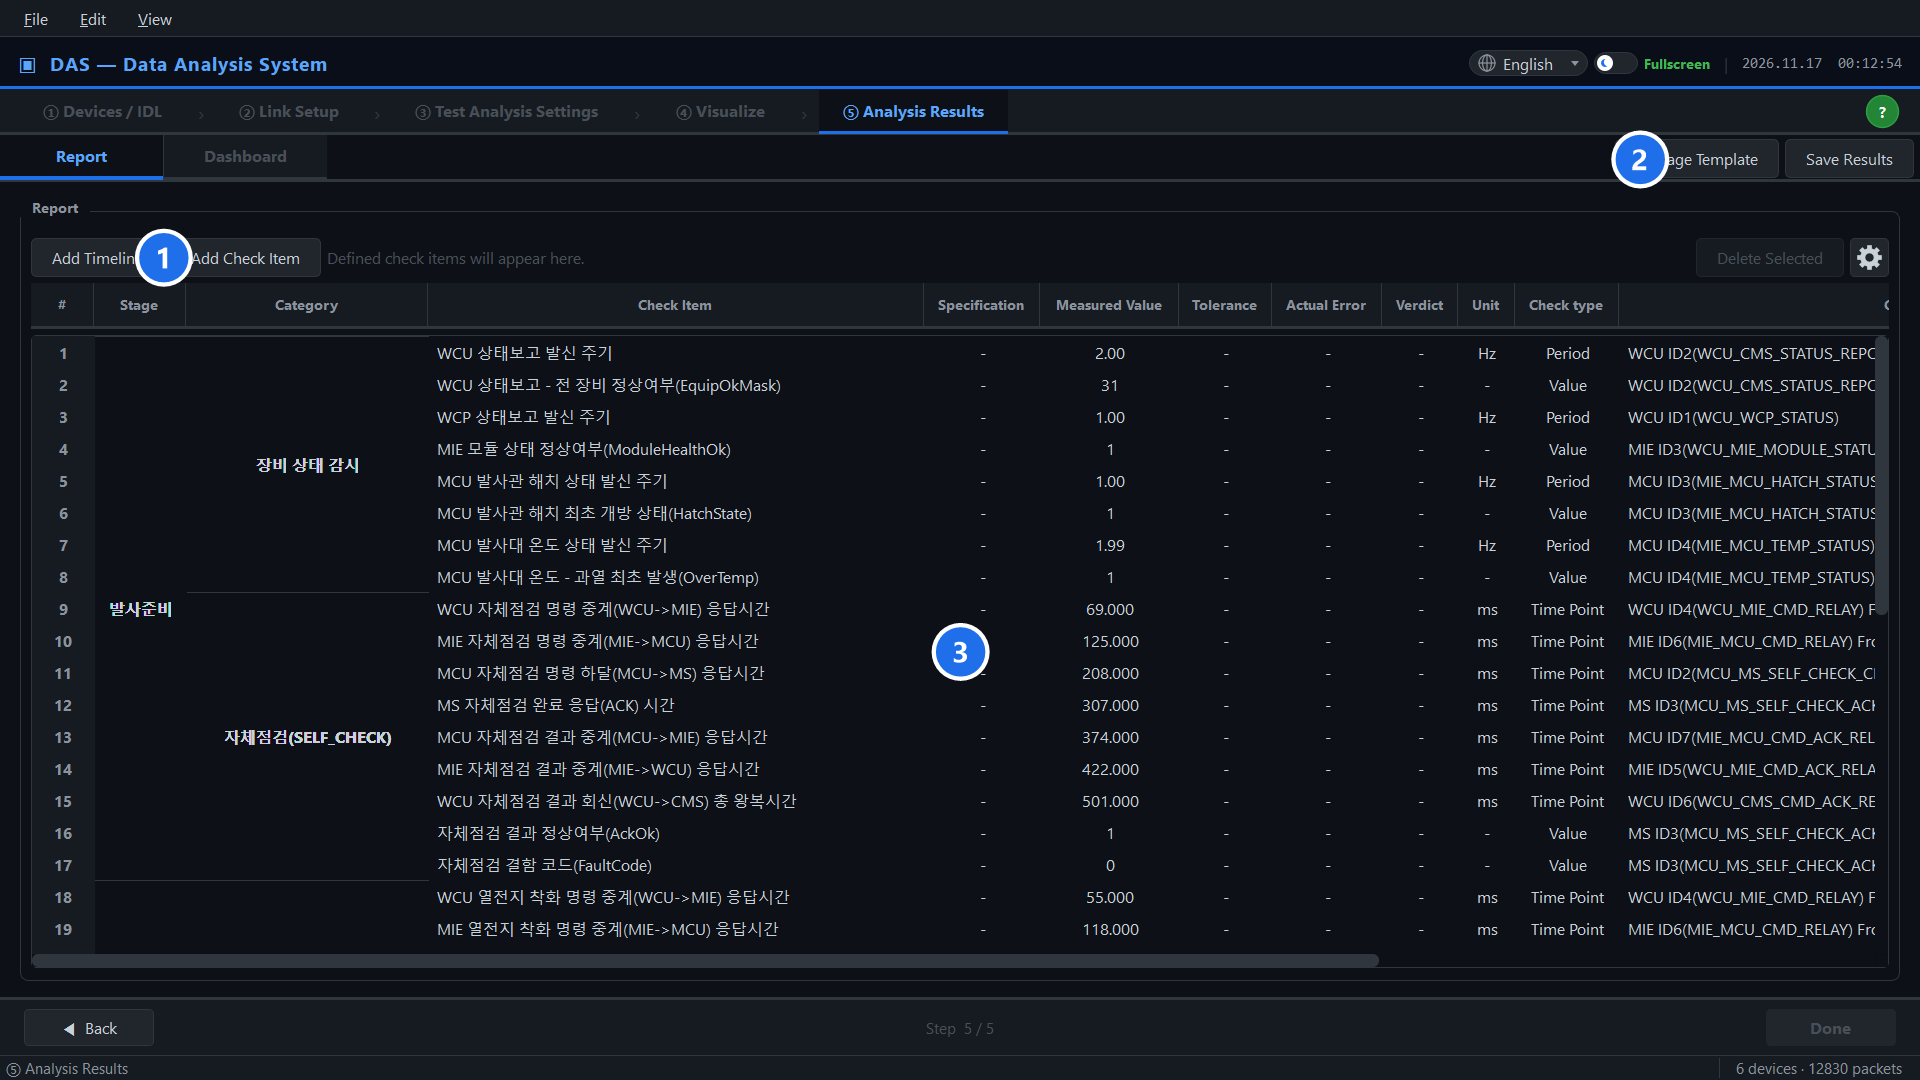
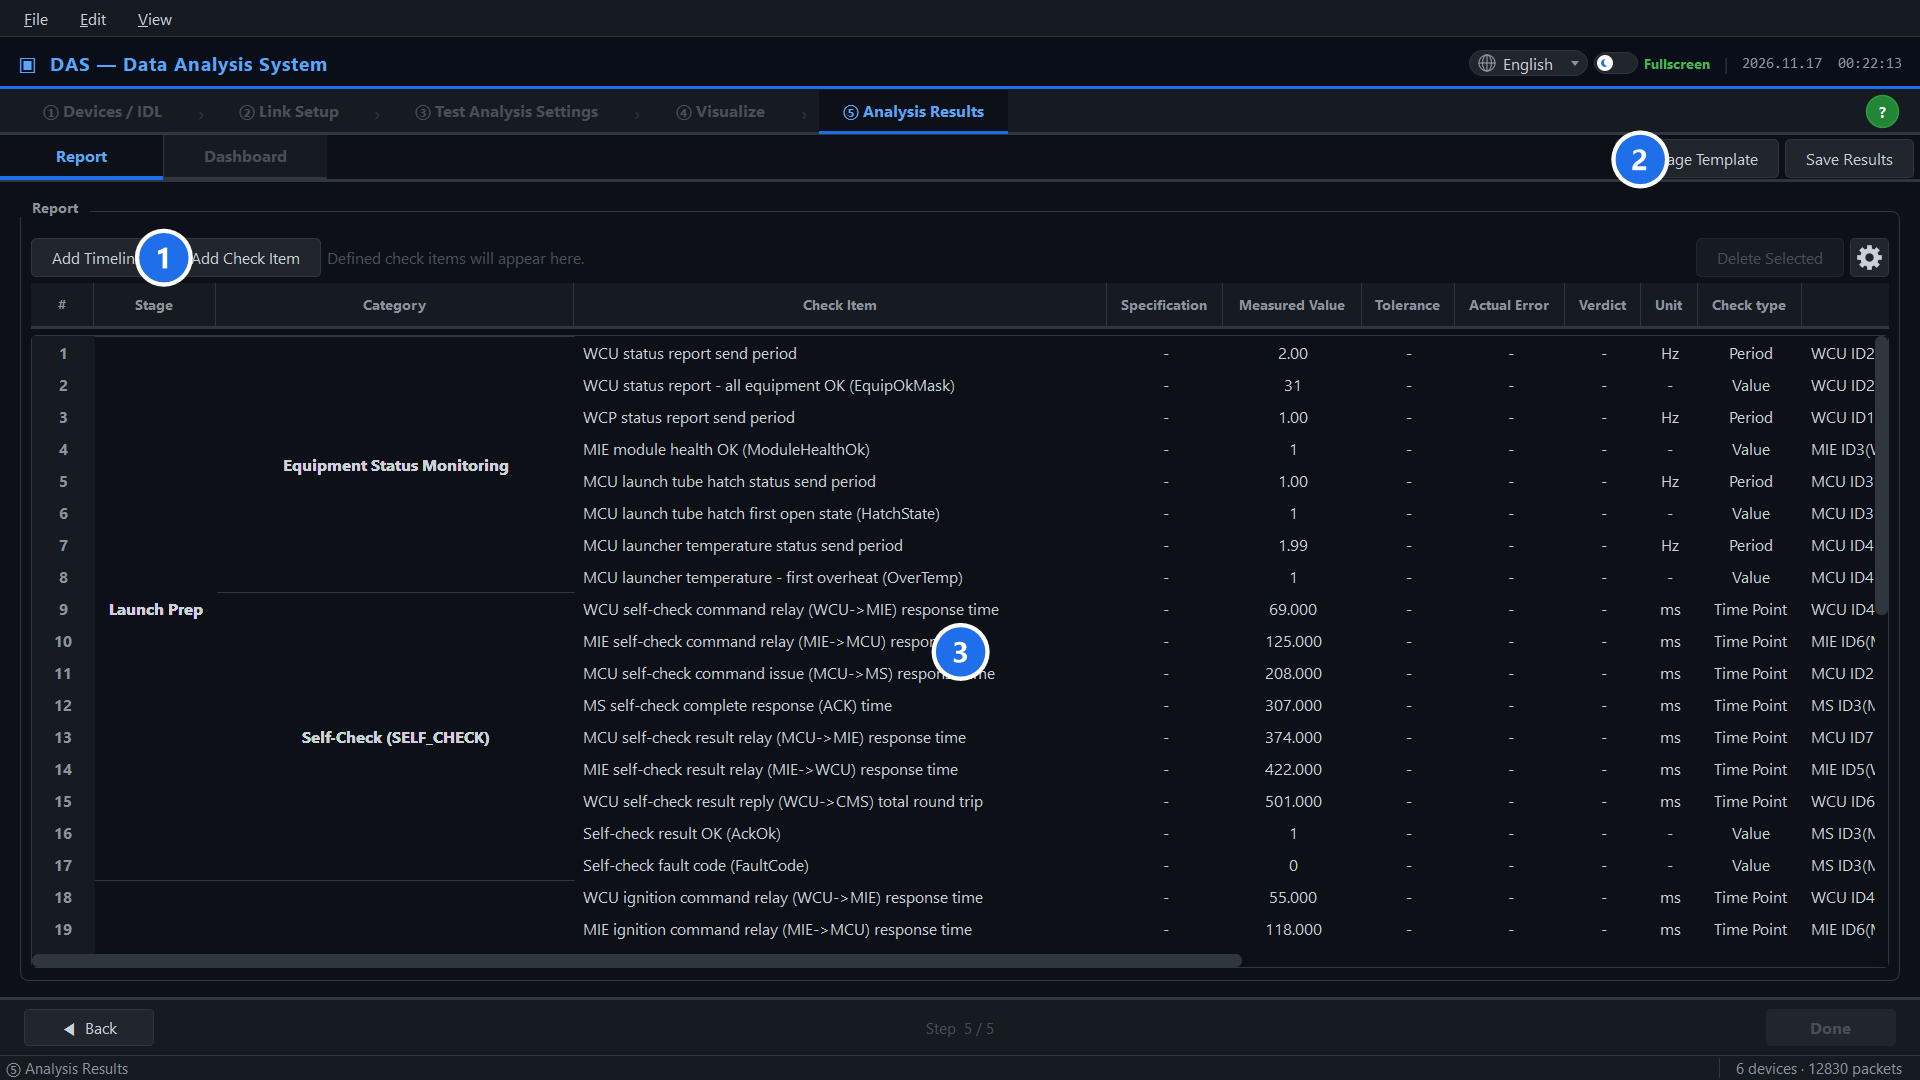
라이트/다크 테마 화면 -- 보는 사람의 GitHub 테마에 맞춰 표시, 영어판 성적서 화면을 영어 양식으로

diff --git a/guide/00_quick-start.md b/guide/00_quick-start.md
@@ -16,7 +16,11 @@ DAS는 발사 시험 네트워크 캡처(PCAPNG)를 장치/IDL 설정에 맞춰 
 
 - 앞 단계의 설정이 뒤 단계 해석의 기준이 되므로, 순서를 건너뛰면 ④·⑤ 단계 화면이 비어 보일 수 있습니다.
 
-![빠른 시작](images/01_step1_device_idl_empty__quick-start.png)
+<picture>
+  <source media="(prefers-color-scheme: dark)" srcset="images/01_step1_device_idl_empty__quick-start.png">
+  <source media="(prefers-color-scheme: light)" srcset="images/01_step1_device_idl_empty__quick-start__light.png">
+  <img alt="빠른 시작" src="images/01_step1_device_idl_empty__quick-start__light.png">
+</picture>
 
 - **1** 좌측 상단 버튼 줄. 지금은 등록된 장치가 없어 "현재 설정 다시 불러오기"가 회색으로 비활성화돼 있고, 그 아래에는 "현재 설정: 없음"으로 표시됩니다. "+ 장치 추가"로 처음부터 하나씩 등록하거나, 이미 만들어 둔 endpoints.lua나 DAS 설정 JSON이 있다면 초록색 "시험분석설정 불러오기"로 한 번에 채울 수 있습니다.
 - **2** 장치 목록 (좌측). 지금은 장치가 하나도 없어 목록이 비어 있고, 화면 맨 아래 상태줄에도 "장치 0개"로 표시됩니다. 프로그램을 처음 열었을 때, 또는 "전체 삭제"를 누른 직후 보게 되는 화면이 바로 이 상태입니다.

diff --git a/guide/en/00_quick-start.md b/guide/en/00_quick-start.md
@@ -16,7 +16,11 @@ DAS interprets a launch test network capture (PCAPNG) according to your device/I
 
 - Earlier steps' settings are the basis for how later steps interpret data -- skipping ahead can leave the ④/⑤ screens looking empty.
 
-![Quick Start](images/01_step1_device_idl_empty__quick-start.png)
+<picture>
+  <source media="(prefers-color-scheme: dark)" srcset="images/01_step1_device_idl_empty__quick-start.png">
+  <source media="(prefers-color-scheme: light)" srcset="images/01_step1_device_idl_empty__quick-start__light.png">
+  <img alt="Quick Start" src="images/01_step1_device_idl_empty__quick-start__light.png">
+</picture>
 
 - **1** Top-left button row. No device is registered yet, so "Reload Current Settings" is grayed out and the line below reads "Current config: none". Register devices one by one with "+ Add Device", or if you already have an endpoints.lua or DAS config JSON, fill everything in at once with the green "Load Test Analysis Config".
 - **2** Device List (left). The list is empty because no devices exist yet, and the status bar at the bottom also reads "0 devices." This is exactly the screen you see the first time you open the program, or right after pressing "Delete All."

diff --git a/guide/07_step4-periodic.md b/guide/07_step4-periodic.md
@@ -19,7 +19,11 @@ IDL이 주기로 선언한 메시지의 연속 발생 간격을 그래프로 그
 - Ctrl+휠로 확대하고, 끌기나 Shift+휠로 이동하며, "전체 보기"로 처음 상태로 돌아갑니다.
 - 정보 팝업은 3개까지 띄울 수 있고, 제목 줄로 옮기고 오른쪽 아래 모서리로 크기를 바꿉니다.
 
-![④ 시각화 · 주기성](images/19_step4_periodic_line_chart__step4-periodic.png)
+<picture>
+  <source media="(prefers-color-scheme: dark)" srcset="images/19_step4_periodic_line_chart__step4-periodic.png">
+  <source media="(prefers-color-scheme: light)" srcset="images/19_step4_periodic_line_chart__step4-periodic__light.png">
+  <img alt="④ 시각화 · 주기성" src="images/19_step4_periodic_line_chart__step4-periodic__light.png">
+</picture>
 
 - **1** 보기 전환과 저장. 라인 차트/박스 플롯, 전체 보기, 시각화 결과 저장, 파싱된 데이터 내보내기가 있습니다.
 - **2** 라인 차트. X축은 경과 시간, Y축은 연속된 두 발생의 간격이며, 뾰족하게 튄 곳이 누락이나 지연 후보입니다.

diff --git a/guide/10_step5.md b/guide/10_step5.md
@@ -19,7 +19,11 @@
 - 행을 더블클릭하면 편집, 순번 칸을 끌면 순서 변경, 인접한 여러 행을 우클릭하면 점검 단계/구분으로 묶습니다.
 - 표 위 톱니바퀴 버튼에서 실수 값의 표시 자리수를 정합니다(판정은 원래 정밀도로 계산).
 
-![⑤ 시험분석결과 · 성적서](images/36_step5_report_checklist_populated__step5.png)
+<picture>
+  <source media="(prefers-color-scheme: dark)" srcset="images/36_step5_report_checklist_populated__step5.png">
+  <source media="(prefers-color-scheme: light)" srcset="images/36_step5_report_checklist_populated__step5__light.png">
+  <img alt="⑤ 시험분석결과 · 성적서" src="images/36_step5_report_checklist_populated__step5__light.png">
+</picture>
 
 - **1** 왼쪽 위 "시간선 추가"/"점검항목 추가" 버튼으로 시간선과 점검항목(시점/값/주기/응답시간)을 추가합니다.
 - **2** 오른쪽 위 "양식 관리"에서 이전에 저장해 둔 성적서 양식 JSON을 불러와 구성을 재사용하거나, 지금 구성을 양식으로 저장할 수 있습니다.

diff --git a/guide/en/10_step5.md b/guide/en/10_step5.md
@@ -19,7 +19,11 @@ Extracts time points, values, periods and response times from the loaded capture
 - Double-click a row to edit, drag the No. cell to reorder, right-click adjacent rows to group them into a stage/category.
 - The gear button above the table sets how many digits real values show (verdicts always use full precision).
 
-![⑤ Analysis Results · Report](images/36_step5_report_checklist_populated__step5.png)
+<picture>
+  <source media="(prefers-color-scheme: dark)" srcset="images/36_step5_report_checklist_populated__step5.png">
+  <source media="(prefers-color-scheme: light)" srcset="images/36_step5_report_checklist_populated__step5__light.png">
+  <img alt="⑤ Analysis Results · Report" src="images/36_step5_report_checklist_populated__step5__light.png">
+</picture>
 
 - **1** Add timelines and check items (timing/value/period/response time) with the "Add Timeline"/"Add Check Item" buttons at the top left.
 - **2** With "Manage Template" at the top right you can load a previously saved report template JSON to reuse its setup, or save the current setup as a template.

diff --git a/guide/en/07_step4-periodic.md b/guide/en/07_step4-periodic.md
@@ -19,7 +19,11 @@ Plots the interval between consecutive occurrences of IDL-declared periodic mess
 - Ctrl+wheel zooms, dragging or Shift+wheel pans, and "Fit to Width" goes back to the start.
 - Up to 3 info popups can be open; move one by its title bar and resize it by its bottom-right corner.
 
-![④ Visualize · Periodicity](images/19_step4_periodic_line_chart__step4-periodic.png)
+<picture>
+  <source media="(prefers-color-scheme: dark)" srcset="images/19_step4_periodic_line_chart__step4-periodic.png">
+  <source media="(prefers-color-scheme: light)" srcset="images/19_step4_periodic_line_chart__step4-periodic__light.png">
+  <img alt="④ Visualize · Periodicity" src="images/19_step4_periodic_line_chart__step4-periodic__light.png">
+</picture>
 
 - **1** View switch and saving: Line Chart/Box Plot, Fit to Width, Save Chart, Export Parsed Data.
 - **2** Line chart. X is elapsed time, Y the interval between two consecutive occurrences; sharp spikes are likely gaps or delays.

diff --git a/guide/08_step4-continuity.md b/guide/08_step4-continuity.md
@@ -18,7 +18,11 @@
 - 다른 필드를 보다가 돌아오면 그 필드에서 띄운 팝업·확대·기준선이 그대로 남아 있습니다.
 - 기준선(y=a), 이미지 저장, 데이터 내보내기는 주기성 탭과 같은 방식입니다.
 
-![④ 시각화 · 연속성](images/30_step4_continuity_field_trend__step4-continuity.png)
+<picture>
+  <source media="(prefers-color-scheme: dark)" srcset="images/30_step4_continuity_field_trend__step4-continuity.png">
+  <source media="(prefers-color-scheme: light)" srcset="images/30_step4_continuity_field_trend__step4-continuity__light.png">
+  <img alt="④ 시각화 · 연속성" src="images/30_step4_continuity_field_trend__step4-continuity__light.png">
+</picture>
 
 - **1** 툴바. 전체 보기, 시각화 결과 저장, 선택한 필드의 데이터 내보내기가 있습니다.
 - **2** 값 추이 그래프. 갑자기 끊기거나 0으로 떨어지는 곳은 결측이나 센서 이상 후보입니다.

diff --git a/guide/en/05_step3.md b/guide/en/05_step3.md
@@ -20,7 +20,11 @@ Load a PCAPNG, decode it with the settings from tabs ① and ②, and choose the
 - With the "Live load" toggle on, DAS follows the file dumpcap is writing every 1-10 s and shows the latest packets.
 - "Export Parsed Data" saves the decoded results as CSV/XLSX files per device pair.
 
-![③ Test Analysis Settings](images/12_step3_pcapng_message_tree__step3.png)
+<picture>
+  <source media="(prefers-color-scheme: dark)" srcset="images/12_step3_pcapng_message_tree__step3.png">
+  <source media="(prefers-color-scheme: light)" srcset="images/12_step3_pcapng_message_tree__step3__light.png">
+  <img alt="③ Test Analysis Settings" src="images/12_step3_pcapng_message_tree__step3__light.png">
+</picture>
 
 - **1** PCAPNG load panel. Pick a file and click "Load" to see its details and packet count.
 - **2** Filter toolbar: select/deselect all, collapse/expand all, the smart filter toggle and ratio, and "Apply Filter".

diff --git a/guide/en/06_step4-timeline.md b/guide/en/06_step4-timeline.md
@@ -20,7 +20,11 @@ Lays messages out in device columns and time order to show "who sent what to who
 - Fields with lsb/msb are shown as physical values with units.
 - Back/Forward (Ctrl+Z/Ctrl+Y) keeps a separate history for each visualization sub-tab.
 
-![④ Visualize · Timeline](images/14_step4_timeline_message_detail__step4-timeline.png)
+<picture>
+  <source media="(prefers-color-scheme: dark)" srcset="images/14_step4_timeline_message_detail__step4-timeline.png">
+  <source media="(prefers-color-scheme: light)" srcset="images/14_step4_timeline_message_detail__step4-timeline__light.png">
+  <img alt="④ Visualize · Timeline" src="images/14_step4_timeline_message_detail__step4-timeline__light.png">
+</picture>
 
 - **1** Minimap. Shows the whole capture compressed; the highlighted box is the part currently in view.
 - **2** Message details. The selected message's header info and its IDL structure as field/value/size.

diff --git a/guide/03_step1.md b/guide/03_step1.md
@@ -19,7 +19,11 @@
 - 장치나 IDL을 지워도 그것을 쓰던 ② 탭의 연결은 남습니다. 지운 뒤 ② 탭을 확인하세요.
 - 장치를 고치거나 지우려면 장치 목록의 행을 더블클릭하거나 우클릭합니다.
 
-![① 장치 / IDL](images/05_step1_device_idl_populated__step1.png)
+<picture>
+  <source media="(prefers-color-scheme: dark)" srcset="images/05_step1_device_idl_populated__step1.png">
+  <source media="(prefers-color-scheme: light)" srcset="images/05_step1_device_idl_populated__step1__light.png">
+  <img alt="① 장치 / IDL" src="images/05_step1_device_idl_populated__step1__light.png">
+</picture>
 
 - **1** 버튼 줄. "+ 장치 추가", "시험분석설정 불러오기", "현재 설정 다시 불러오기"가 있습니다.
 - **2** 장치 목록. 장치마다 그 아래에 소켓(IP:Port)이 나열되며, 행을 더블클릭하면 편집 창이 열립니다.

diff --git a/guide/en/08_step4-continuity.md b/guide/en/08_step4-continuity.md
@@ -18,7 +18,11 @@ Pick one numeric field of a periodic message and see how its value changes over 
 - Coming back to a field restores its popups, zoom and reference lines.
 - Reference lines (y=a), image saving and data export work as on the Periodicity tab.
 
-![④ Visualize · Continuity](images/30_step4_continuity_field_trend__step4-continuity.png)
+<picture>
+  <source media="(prefers-color-scheme: dark)" srcset="images/30_step4_continuity_field_trend__step4-continuity.png">
+  <source media="(prefers-color-scheme: light)" srcset="images/30_step4_continuity_field_trend__step4-continuity__light.png">
+  <img alt="④ Visualize · Continuity" src="images/30_step4_continuity_field_trend__step4-continuity__light.png">
+</picture>
 
 - **1** Toolbar: Fit to Width, Save Chart, and export of the selected field's data.
 - **2** Value trend. Sudden breaks or drops to 0 are likely missing data or sensor faults.
